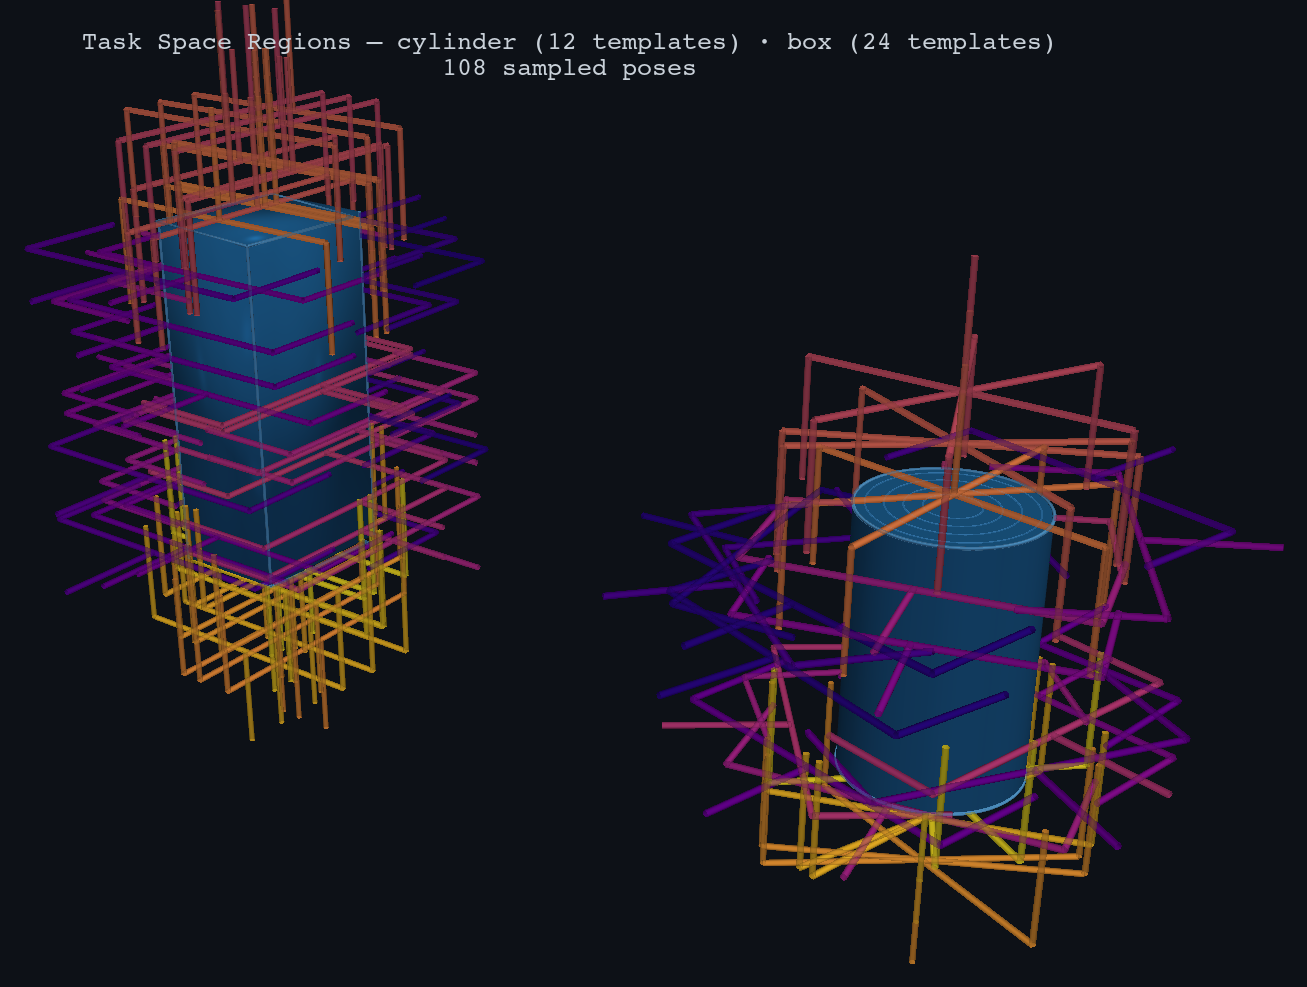
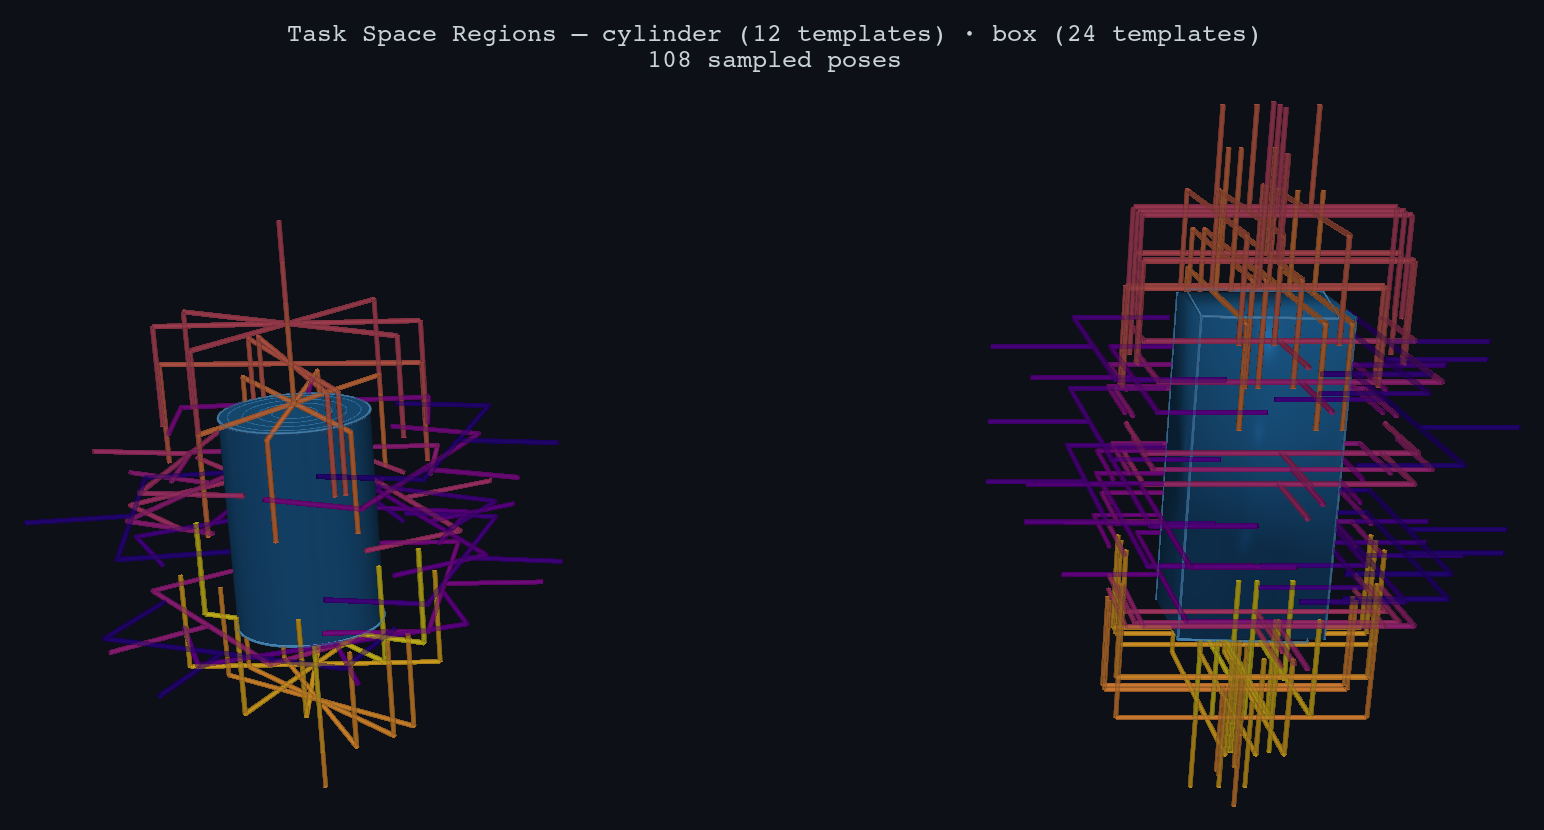
Fix demo viewpoint: side-by-side layout with az=270 and x-axis separation

diff --git a/examples/parallel_jaw_grasp.py b/examples/parallel_jaw_grasp.py
@@ -30,9 +30,9 @@ BOX_Z = 0.180   # box height [m]
 
 N = 3           # samples per template
 
-# Offsets: cylinder left, box right (separated in y)
-CYL_OFF = (0., -0.18, 0.)
-BOX_OFF = (0.,  0.20, 0.)
+# Objects separated along world-x, which is image-horizontal at az=270°
+CYL_OFF = (-0.26, 0., 0.)   # cylinder on the left
+BOX_OFF = ( 0.26, 0., 0.)   # box on the right
 
 
 # ── Helpers ────────────────────────────────────────────────────────────────────
@@ -75,9 +75,8 @@ def main() -> None:
     print(f"Cylinder: {n_cyl} templates · {len(cyl_poses)} poses")
     print(f"Box:      {n_box} templates · {len(box_poses)} poses")
 
-    focus = (0.,
-             (CYL_OFF[1] + BOX_OFF[1]) / 2.,
-             (MUG_H + BOX_Z) / 4.)
+    # Camera at az=270° looks along +y; world-x = image-horizontal → side by side
+    focus = (0., 0., (MUG_H + BOX_Z) / 4.)
 
     def scene_renderer(pl):
         cylinder_renderer(MUG_R, MUG_H, offset=CYL_OFF)(pl)
@@ -88,9 +87,9 @@ def main() -> None:
                f"box ({n_box} templates)\n"
                f"{len(all_poses)} sampled poses"),
         focus=focus,
-        camera_dist=0.90,
-        camera_az=215.,
-        camera_el=28.,
+        camera_dist=1.05,
+        camera_az=270.,
+        camera_el=22.,
     ).render(
         reference_renderer=scene_renderer,
         subject_renderer=gripper.renderer(),
